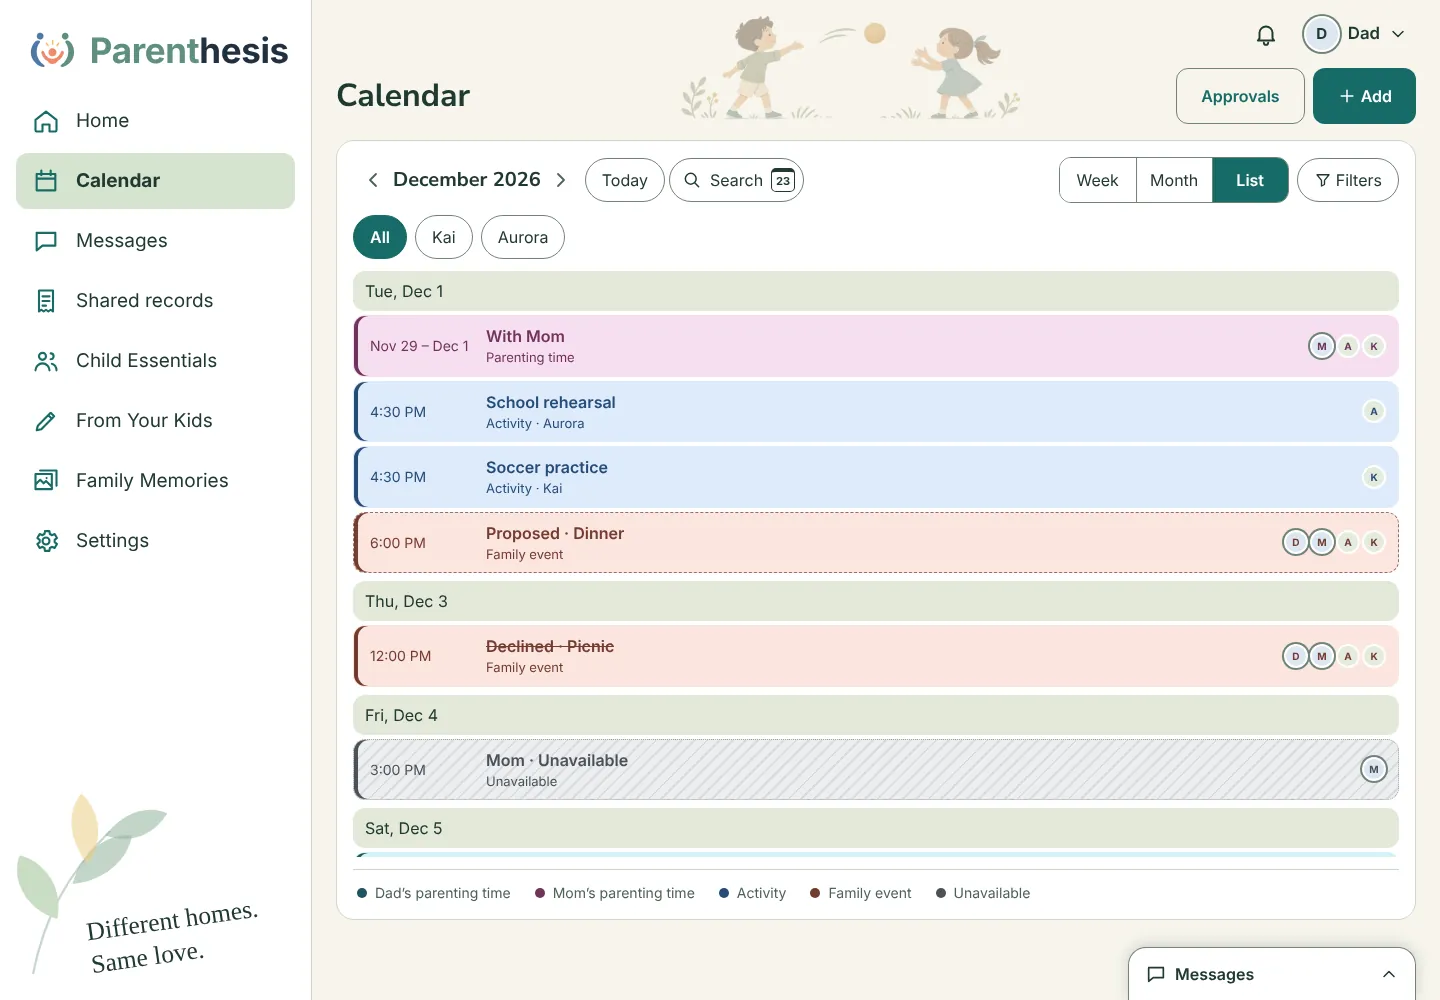
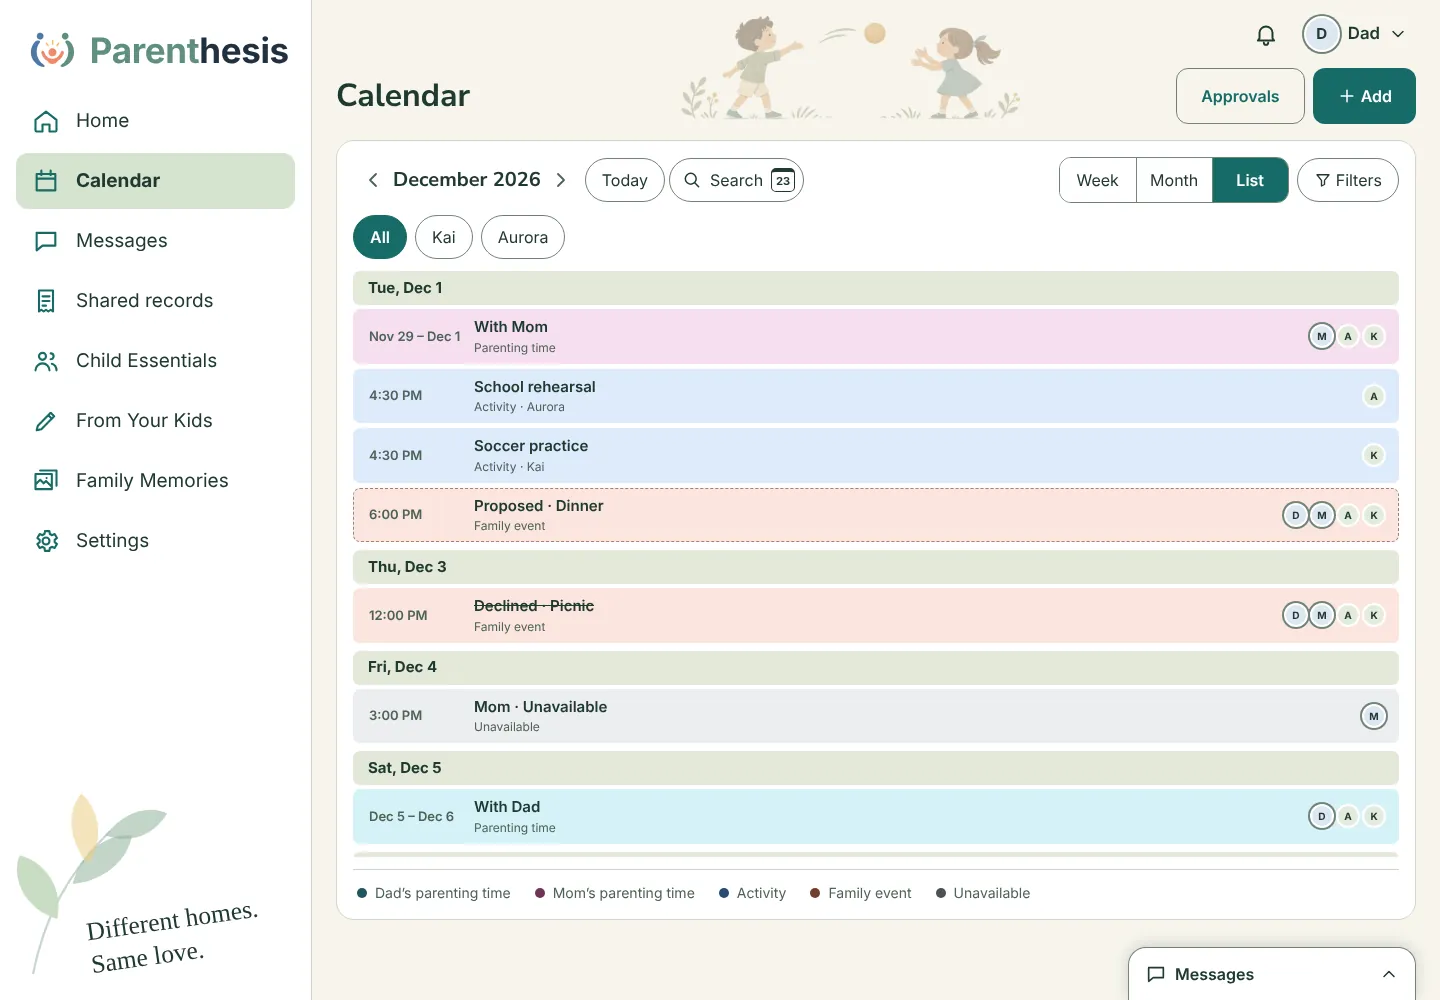
fix(calendar): List and agenda cards as flat event colours (refs #729)
List rows and the phone day agendas now take their event type's colour
as a flat fill, with the theme's own text colours, as in the approved
frames: no curved edge stripe (owner decision). Phones use the colour at
56%, as Figma does. Date bands are bold 15px on 34px, with 7px corners.

Claude-Session: https://claude.ai/code/session_01MybTSDWxhGznQSK1M9SCPx

Changed region(s): [[0.2188, 0.279, 0.9688, 0.868]]

diff --git a/src/frontend/src/app/features/calendar/components/calendar-list/calendar-list.component.ts b/src/frontend/src/app/features/calendar/components/calendar-list/calendar-list.component.ts
@@ -1,13 +1,12 @@
 import { inject } from '@angular/core';
 import { LocaleService } from '../../../../core/i18n/locale.service';
 import { TranslatePipe } from '../../../../core/i18n/translations';
-import { CalendarPalette } from '../../calendar-palette';
 import { ChangeDetectionStrategy, Component, computed, input, output } from '@angular/core';
 import { PlainDate } from '../../../../core/dates/plain-date';
 import { addDays, dayLong, daysBetween, monthDay, weekdayShort } from '../../../../core/dates/dates';
 import { NarrowHost } from '../../narrow';
 import { CalendarItem, byStart, onDate } from '../../calendar-items';
-import { ItemCard } from '../item-card/item-card.component';
+import { ItemCard, cardPalette, cardTint } from '../item-card/item-card.component';
 
 /**
  * The List view (#729, Quiet Planner): every day in the range that has something on it, under its date, each item a card
@@ -16,7 +15,7 @@ import { ItemCard } from '../item-card/item-card.component';
 @Component({
   selector: 'app-calendar-list',
   changeDetection: ChangeDetectionStrategy.OnPush,
-  imports: [TranslatePipe, CalendarPalette, ItemCard],
+  imports: [TranslatePipe, ItemCard],
   template: `
     <ol class="days">
       @for (day of days(); track day.date) {
@@ -33,9 +32,12 @@ import { ItemCard } from '../item-card/item-card.component';
             @for (item of day.items; track item.id) {
               <li>
                 <button
+                  [class.item--soft]="narrow()"
                   type="button"
                   class="item"
-                  [attr.data-kind]="item.kind" [appCalendarPalette]="item.concealed ? 'concealed' : (item.palette ?? item.kind)"
+                  [attr.data-kind]="item.kind"
+                  [attr.data-palette]="palette(item)"
+                  [style]="tint(item)"
                   [attr.data-category]="item.category"
                   [attr.data-status]="item.status"
                   [attr.data-concealed]="item.concealed ? 'true' : null"
@@ -60,6 +62,8 @@ export class CalendarList extends NarrowHost {
   readonly today = input.required<PlainDate>();
   readonly items = input.required<readonly CalendarItem[]>();
   readonly selected = output<CalendarItem>();
+  protected readonly palette = cardPalette;
+  protected readonly tint = cardTint;
 
   protected readonly days = computed(() =>
     Array.from({ length: daysBetween(this.from(), this.to()) }, (_, i) => addDays(this.from(), i))

diff --git a/src/frontend/src/app/features/calendar/components/item-card/item-card.component.ts b/src/frontend/src/app/features/calendar/components/item-card/item-card.component.ts
@@ -41,6 +41,14 @@ export function cardStatus(item: CalendarItem, locale: AppLocale = 'en'): string
   return statusWord(item, locale) ?? (item.kind === 'task' && item.done ? translate('feature.done', locale) : null);
 }
 
+/** The palette a Quiet Planner card takes its tint and marker from (#729). */
+export const cardPalette = (item: CalendarItem): string => (item.concealed ? 'concealed' : (item.palette ?? item.kind));
+/** `--tint` and `--marker` for a Quiet Planner card's style (#729): its type's fill and its type's own colour. */
+export const cardTint = (item: CalendarItem): Record<string, string> => {
+  const key = cardPalette(item);
+  return { '--tint': `var(--color-calendar-${key}-bg)`, '--marker': `var(--color-calendar-${key}-fg)` };
+};
+
 const AVATAR_SIZES: Record<CardLayout, number> = { list: 24, agenda: 26, week: 16, span: 22, row: 16 };
 /** Photos a list or agenda card shows before "+N": enough for both parents and two children. */
 const MAX_PEOPLE = 4;
@@ -95,11 +103,24 @@ const STACK_BELOW = 160;
       min-inline-size: 0;
     }
     :host([data-layout='list']) {
-      grid-template-columns: 6.5rem minmax(0, 1fr) auto;
+      /* The title starts 120px into the card, as in the frames (15px padding, 93px time, 12px gap). */
+      grid-template-columns: 5.8125rem minmax(0, 1fr) auto;
       gap: var(--space-3);
     }
-    .time {
+    :host([data-layout='list']) .line {
+      font-size: 0.9375rem;
+    }
+    :host([data-layout='agenda']) .line {
       font-size: 0.875rem;
+    }
+    :host([data-layout='list']) .sub,
+    :host([data-layout='agenda']) .sub {
+      font-size: 0.75rem;
+    }
+    .time {
+      font-size: 0.8125rem;
+      font-weight: 600;
+      color: var(--color-text-secondary);
       overflow-wrap: anywhere;
     }
     .text {

diff --git a/src/frontend/src/app/features/calendar/components/calendar-week/calendar-week.component.html b/src/frontend/src/app/features/calendar/components/calendar-week/calendar-week.component.html
@@ -152,7 +152,7 @@
         <ul class="agenda__items">
           @for (item of day.allDay; track item.id) {
             <li>
-              <button type="button" class="item agenda__item" [attr.data-kind]="item.kind" [appCalendarPalette]="item.palette ?? item.kind" [attr.data-category]="item.category" [attr.data-status]="item.status" (click)="selected.emit(item)">
+              <button type="button" class="agenda__item" [attr.data-kind]="item.kind" [style]="tint(item)" [attr.data-category]="item.category" [attr.data-status]="item.status" (click)="selected.emit(item)">
                 <app-item-card [item]="item" layout="agenda" />
               </button>
             </li>
@@ -165,7 +165,7 @@
               <ul class="agenda__items" [attr.aria-label]="group.heading">
                 @for (item of group.items; track item.id) {
                   <li>
-                    <button type="button" class="item agenda__item" [attr.data-kind]="item.kind" [appCalendarPalette]="item.palette ?? item.kind" [attr.data-category]="item.category" [attr.data-status]="item.status" (click)="selected.emit(item)">
+                    <button type="button" class="agenda__item" [attr.data-kind]="item.kind" [style]="tint(item)" [attr.data-category]="item.category" [attr.data-status]="item.status" (click)="selected.emit(item)">
                       <app-item-card [item]="item" layout="agenda" />
                     </button>
                   </li>

diff --git a/src/frontend/src/app/features/calendar/_item.scss b/src/frontend/src/app/features/calendar/_item.scss
@@ -42,3 +42,33 @@
     outline-offset: 2px;
   }
 }
+
+// A Quiet Planner card (#729, Figma 2158:642/842 and dark versions): List rows and the phone day agendas. The whole
+// card takes its type's colour (56% on phones, `$soft`) with nothing on its edge (owner decision, November 23, 2026),
+// and its text keeps the theme's own colours. Set `--tint` and `--marker` on the card (see `cardTint` in item-card).
+@mixin qp-card($item, $soft: false) {
+  #{$item} {
+    position: relative;
+    display: block;
+    inline-size: 100%;
+    min-block-size: var(--target-min);
+    border: 1px solid transparent;
+    border-radius: 7px;
+    @if $soft {
+      background: color-mix(in srgb, var(--tint, var(--color-surface-soft)) 56%, transparent);
+    } @else {
+      background: var(--tint, var(--color-surface-soft));
+    }
+    color: var(--color-text);
+  }
+  // A proposal keeps a dashed edge besides its "Proposed" label, so it never reads as confirmed.
+  #{$item}[data-status='pending'] {
+    border: 1.5px dashed color-mix(in srgb, var(--marker, currentColor) 60%, transparent);
+  }
+  // Hidden by this parent's filters (#190): faint, dashed and labelled, never with private details.
+  #{$item}[data-concealed='true'] {
+    background: transparent;
+    border: 1px dashed var(--color-outline);
+    color: var(--color-text-secondary);
+  }
+}

diff --git a/src/frontend/src/app/features/calendar/components/calendar-month/calendar-month.component.ts b/src/frontend/src/app/features/calendar/components/calendar-month/calendar-month.component.ts
@@ -10,7 +10,7 @@ import { CalendarItem, byStart, onDate } from '../../calendar-items';
 import { MonthBar, layOutWeek } from '../../month-layout';
 import { Avatar } from '../../../../shared/components/avatar/avatar';
 import { Icon } from '../../../../shared/components/icon/icon';
-import { ItemCard, displayTitle } from '../item-card/item-card.component';
+import { ItemCard, cardTint, displayTitle } from '../item-card/item-card.component';
 import { itemSummary } from '../item-text/item-text.component';
 import { NarrowHost } from '../../narrow';
 
@@ -159,6 +159,7 @@ export class CalendarMonth extends NarrowHost {
   /** A confirmed single-day item reads as a line with a dot; proposals and longer items are tinted bars. */
   protected readonly isLine = (bar: MonthBar) =>
     bar.row === 'items' && bar.item.status !== 'pending' && bar.item.status !== 'change-pending' && bar.start + 1 === bar.end;
+  protected readonly tint = cardTint;
   protected readonly concealedLabel = (item: CalendarItem) => itemSummary(item, this.locale.locale());
   protected readonly displayTitle = (item: CalendarItem) => displayTitle(item, this.locale.locale());
   /** A bar's name starts with what it shows when that differs from its title ("Sam · Unavailable"; WCAG 2.5.3). */

diff --git a/src/frontend/src/app/features/calendar/components/calendar-list/calendar-list.component.scss b/src/frontend/src/app/features/calendar/components/calendar-list/calendar-list.component.scss
@@ -27,11 +27,13 @@ ul {
   align-items: center;
   justify-content: space-between;
   gap: var(--space-2);
+  min-block-size: 34px;
   margin: 0;
-  padding: var(--space-2) var(--space-3);
-  border-radius: var(--radius-control);
+  padding: 0 15px;
+  border-radius: 7px;
   background: var(--color-calendar-date-bg);
-  font-size: 1rem;
+  font-size: 0.9375rem;
+  font-weight: 700;
 }
 .today {
   color: var(--color-action);
@@ -40,16 +42,15 @@ ul {
 }
 .items {
   display: grid;
-  gap: var(--space-1);
+  gap: 5px;
 }
 @include item-button('.item');
-@include item-colors('.item');
+@include qp-card('.item');
+@include qp-card('.item--soft', $soft: true);
 .item {
-  display: block;
-  width: 100%;
-  min-height: var(--target-min);
-  padding: var(--space-2) var(--space-3) var(--space-2) var(--space-4);
-  // The whole card is tinted by its type; a bar in the type's own colour marks its start (#729).
-  box-shadow: inset 4px 0 0 0 currentColor;
-  border-radius: var(--radius-control);
+  min-block-size: 49px;
+  padding: 6px 12px 6px 15px;
+}
+.item--soft {
+  padding-inline-start: 12px;
 }

diff --git a/tests/e2e/specs/m3-calendar/issue-552-mobile-week.spec.ts b/tests/e2e/specs/m3-calendar/issue-552-mobile-week.spec.ts
@@ -68,7 +68,10 @@ test('Week shows seven aligned days, one multi-day span and individually reachab
       await expect(days.nth(1)).toHaveAttribute('aria-pressed', 'true');
       expect((await strip.boundingBox())!.y).toBe(stripY);
       await expect(agenda.getByRole('button', { name: /School holiday/ })).toBeVisible();
-      await expect(agenda.locator('.item[data-kind="unavailable"]')).toHaveCSS('background-image', /repeating-linear-gradient/);
+      // Unavailable time is a plain grey card in the agenda, as in the approved frames (#729).
+      const away = agenda.locator('[data-kind="unavailable"]');
+      await expect(away).toBeVisible();
+      await expect(away).toHaveCSS('background-image', 'none');
       await activate(days.nth(2), info);
       await expect(piano).toBeVisible();
       await evidence(page, info, `week-${theme}`);

diff --git a/src/frontend/src/app/features/calendar/components/calendar-week/calendar-week.component.ts b/src/frontend/src/app/features/calendar/components/calendar-week/calendar-week.component.ts
@@ -21,7 +21,7 @@ import { dayLong, dayOfMonth, hourLabel, monthDay, timeLabel, weekDays, weekdayS
 import { AddAt, SlotPick, addFromColumn, clearsPick, dayInRow, pickLabel, pickRows, pickText } from '../../slot';
 import { CalendarItem, byStart, onDate } from '../../calendar-items';
 import { itemSummary } from '../item-text/item-text.component';
-import { ItemCard } from '../item-card/item-card.component';
+import { ItemCard, cardTint } from '../item-card/item-card.component';
 import { NarrowHost } from '../../narrow';
 import { minutesOfDay } from '../../time';
 
@@ -189,6 +189,7 @@ export class CalendarWeek extends NarrowHost {
     }),
   );
 
+  protected readonly tint = cardTint;
   protected readonly markerLabel = (item: CalendarItem) => itemSummary(item, this.locale.locale());
 
   protected readonly hourMarks = computed(() =>

diff --git a/src/frontend/src/app/features/calendar/components/calendar-month/calendar-month.component.scss b/src/frontend/src/app/features/calendar/components/calendar-month/calendar-month.component.scss
@@ -322,12 +322,17 @@
   padding: 0;
   list-style: none;
 }
+@include qp-card('.agenda__item', $soft: true);
 .agenda__item {
-  display: block;
-  inline-size: 100%;
-  min-block-size: var(--target-min);
-  padding: var(--space-1) var(--space-2) var(--space-1) var(--space-3);
-  box-shadow: inset 4px 0 0 0 currentColor;
+  min-block-size: 48px;
+  padding: 4px 8px 4px 12px;
+  font: inherit;
+  text-align: start;
+  cursor: pointer;
+}
+.agenda__item:focus-visible {
+  outline: 3px solid var(--color-focus);
+  outline-offset: 2px;
 }
 .agenda__empty {
   margin: 0;

diff --git a/src/frontend/src/app/features/calendar/components/calendar-week/calendar-week.component.scss b/src/frontend/src/app/features/calendar/components/calendar-week/calendar-week.component.scss
@@ -386,10 +386,17 @@ ul {
   font-size: 0.8125rem;
   color: var(--color-text-secondary);
 }
+@include qp-card('.agenda__item', $soft: true);
 .agenda__item {
-  min-block-size: var(--target-min);
-  padding: var(--space-1) var(--space-2) var(--space-1) var(--space-3);
-  box-shadow: inset 4px 0 0 0 currentColor;
+  min-block-size: 48px;
+  padding: 4px 8px 4px 12px;
+  font: inherit;
+  text-align: start;
+  cursor: pointer;
+}
+.agenda__item:focus-visible {
+  outline: 3px solid var(--color-focus);
+  outline-offset: 2px;
 }
 .agenda__empty {
   margin: 0;

diff --git a/src/frontend/src/app/features/calendar/components/calendar-month/calendar-month.component.html b/src/frontend/src/app/features/calendar/components/calendar-month/calendar-month.component.html
@@ -150,9 +150,9 @@
           <li>
             <button
               type="button"
-              class="item agenda__item"
+              class="agenda__item"
               [attr.data-kind]="item.kind"
-              [appCalendarPalette]="item.palette ?? item.kind"
+              [style]="tint(item)"
               [attr.data-category]="item.category"
               [attr.data-status]="item.status"
               (click)="selected.emit(item)"
